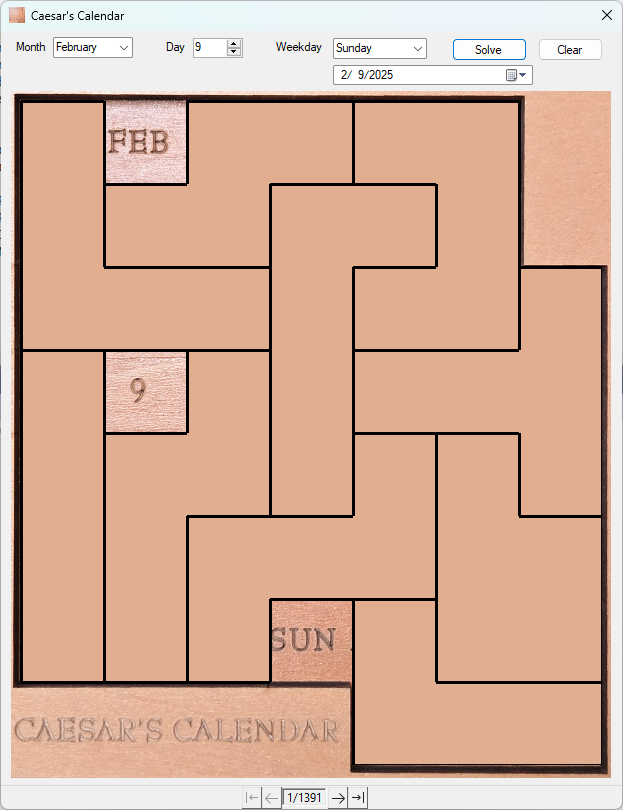
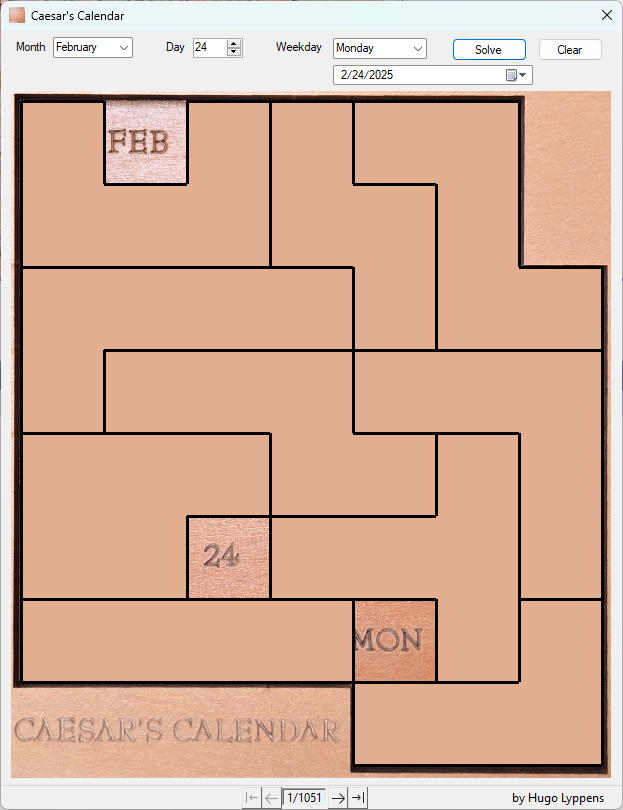
Added author's name

diff --git a/FormCaesarsCalendar.Designer.cs b/FormCaesarsCalendar.Designer.cs
@@ -204,7 +204,7 @@
             // 
             this.toolStripStatusLabel1.BackColor = System.Drawing.SystemColors.Control;
             this.toolStripStatusLabel1.Name = "toolStripStatusLabel1";
-            this.toolStripStatusLabel1.Size = new System.Drawing.Size(261, 17);
+            this.toolStripStatusLabel1.Size = new System.Drawing.Size(245, 17);
             this.toolStripStatusLabel1.Spring = true;
             // 
             // toolStripFirstButton
@@ -278,8 +278,10 @@
             // 
             this.toolStripStatusLabel2.BackColor = System.Drawing.SystemColors.Control;
             this.toolStripStatusLabel2.Name = "toolStripStatusLabel2";
-            this.toolStripStatusLabel2.Size = new System.Drawing.Size(261, 17);
+            this.toolStripStatusLabel2.Size = new System.Drawing.Size(245, 17);
             this.toolStripStatusLabel2.Spring = true;
+            this.toolStripStatusLabel2.Text = "by Hugo Lyppens";
+            this.toolStripStatusLabel2.TextAlign = System.Drawing.ContentAlignment.MiddleRight;
             // 
             // FormCaesarsCalendar
             // 

diff --git a/README.md b/README.md
@@ -2,7 +2,10 @@ C# .NET Framework 4.8 Windows Forms app to show all solutions to the Caesar's Ca
 
 <img src="doc/Screenshot Caesar's Calendar.png" />
 
-At the bottom you see the total number of solutions found for the current combination of month, day and weekday. Double-clicking the next and previous buttons jump by 100 solutions.
+At the bottom you see the total number of solutions found for the current combination of month, day and weekday. Double-clicking the next and previous buttons lets jump by 100 solutions.
+
+You can either clone the repo and build it in Visual Studio, or download the zip archive from the [releases](https://github.com/hugo-lyppens/CaesarsCalendar/releases), extract it and run setup.exe (ClickOnce installation, no admin privileges needed).
+
 
 Includes Shim.System.Numerics by Kenichi Uda
 This package provides System.Numerics.BitOperations backport for .NET Standard 2.0.
